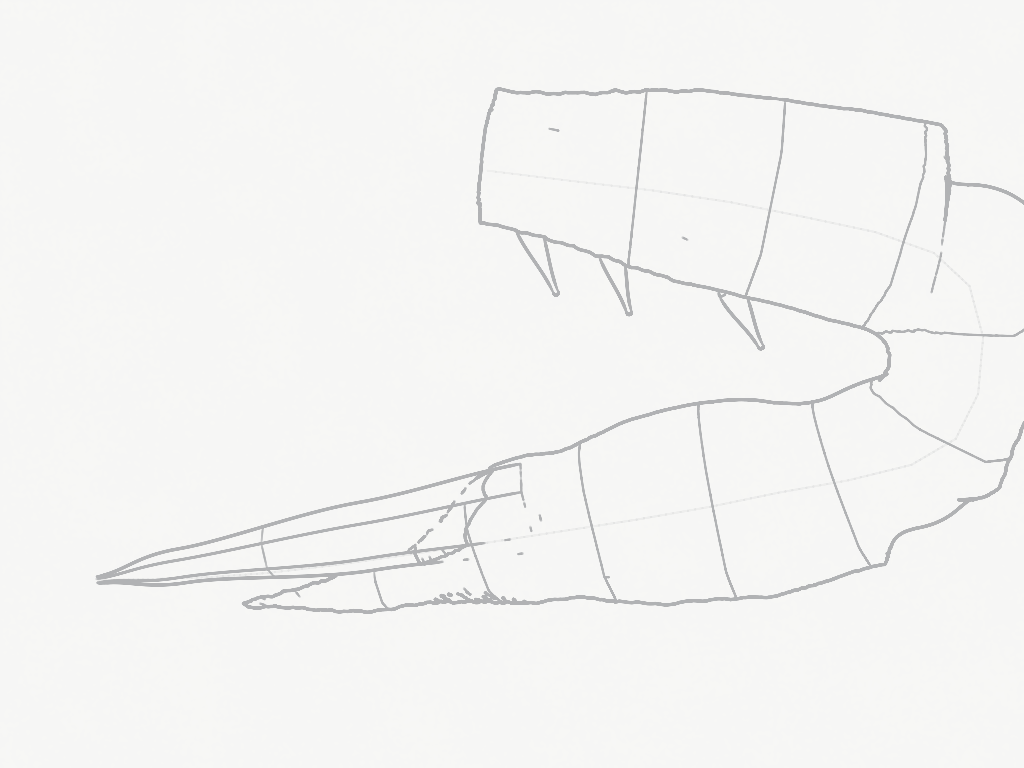
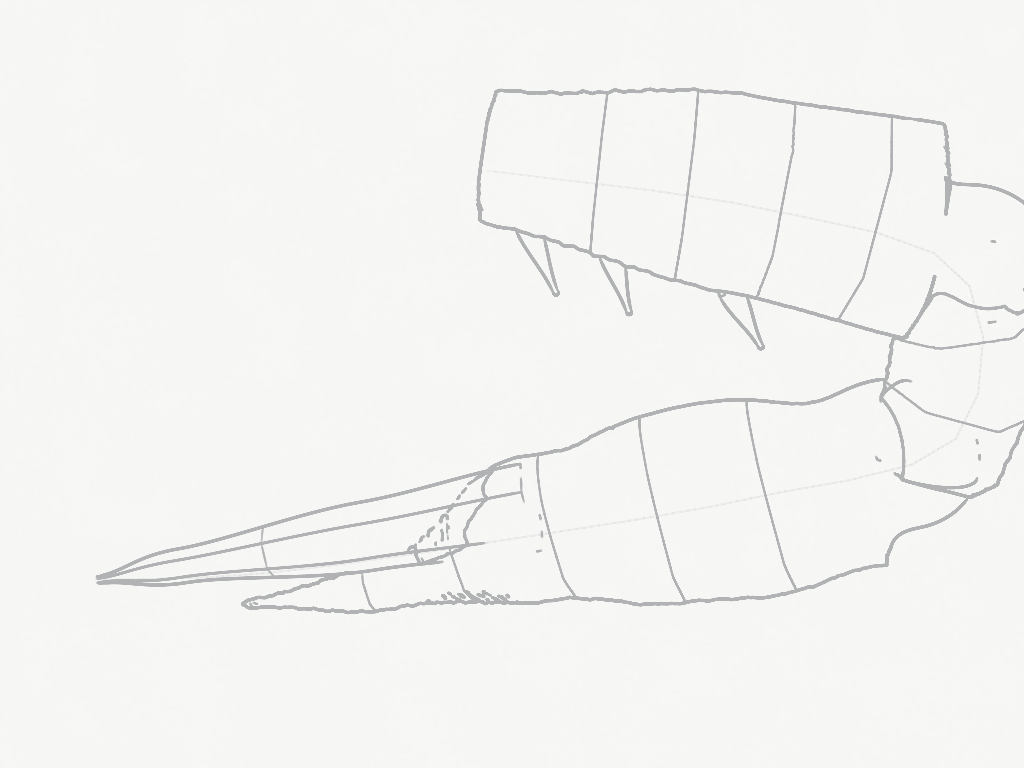
Claw masses: each segment its own mass, joints kept as meeting lines (one blended surface had lost the segments)

diff --git a/drawings/claw-masses.js b/drawings/claw-masses.js
@@ -61,16 +61,23 @@ const knuckle = blobAt([890, 524, 30], 30, 26, 28);    // where the arm swells i
 const wrist = blobAt([858, 606, 22], 32, 26, 30);      // the knob where the carpus meets the palm
 const palmSwell = (() => { const a = P([830, 612, 22]), b = P([735, 622, 20]), c = mul(add(a, b), 0.5), ax = mul(sub(b, a), 0.6); return D.ellipsoid({ at: c, axes: [ax, [0, mm(18, c), 0], mul(norm(D.math.cross(ax, [0, 1, 0])), mm(30, c))] }); })();   // the palm's upper bulge
 const hinge = blobAt([706, 634, 16], 22, 18, 22);      // the hinge's knuckle at the palm's end
-const claw = D.mass({ parts: [arm, carpus, palm, knuckle, wrist, palmSwell, hinge], blend: 4, cell: 0.7, along: [[700, 488, 28], [800, 502, 30], [884, 528, 30], [884, 570, 26], [850, 616, 22], [770, 630, 18], [705, 641, 15], [600, 666, 8]].map(P), loops: 10, crease: 55 });
+// Each segment its own mass, the masses within it blended, the joints between segments kept
+// (blending the whole claw into one surface lost the segments: the painter, "you also lost
+// the segments ;P"). Each segment runs a little into the next, so the joint is an overlap
+// with a meeting line where one tucks into the next.
+const seg = (parts, along, loops) => D.mass({ parts, blend: 4, cell: 0.6, along: along.map(P), loops, crease: 55 });
+const armM = seg([arm, knuckle], [[700, 488, 28], [800, 502, 30], [880, 522, 30]], 4);
+const carpM = seg([carpus], [[878, 524, 30], [886, 566, 28], [872, 612, 24]], 2);
+const propM = seg([palm, wrist, palmSwell, hinge], [[852, 616, 22], [770, 630, 18], [705, 641, 15], [600, 666, 8]], 5);
 
 window.__paintDone = (async () => {
   h.setPaper('hotPress', 5); h.setTone('white'); S.clear();
   const toView = ([x, y]) => [(x - X0) * k, (y - Y0) * k];
   log('gesture: the whole claw as one hook, then where it turns');
   await D.pencil([D.gesture([[690, 490], [800, 505], [884, 532], [882, 600], [800, 624], [700, 641], [600, 655], [530, 658]].map(toView))], { weight: { gesture: 0.2 } });
-  log('masses: the claw as one blended surface, the hinged finger and the spines meeting it');
-  const forms = [claw, dactyl, ...spines];
-  const meets = [D.meet(claw, dactyl), ...spines.map(sp => D.meet(claw, sp))];
+  log('masses: each segment its own blended surface, meeting the next at its joint');
+  const forms = [armM, carpM, propM, dactyl, ...spines];
+  const meets = [D.meet(armM, carpM), D.meet(propM, carpM), D.meet(propM, dactyl), ...spines.map(sp => D.meet(armM, sp))];
   await D.pencil(D.lines([...forms, ...meets], view));
   await S.look('claw');
 })();
